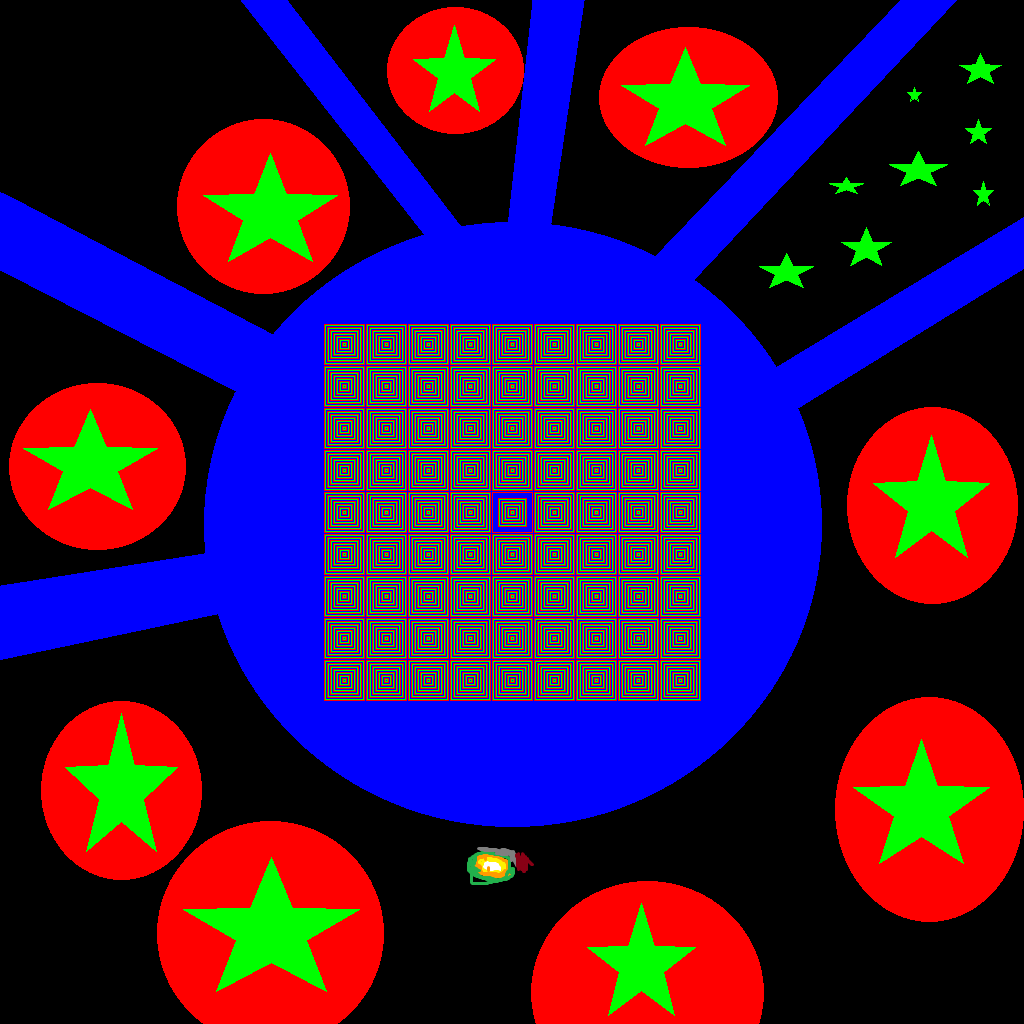
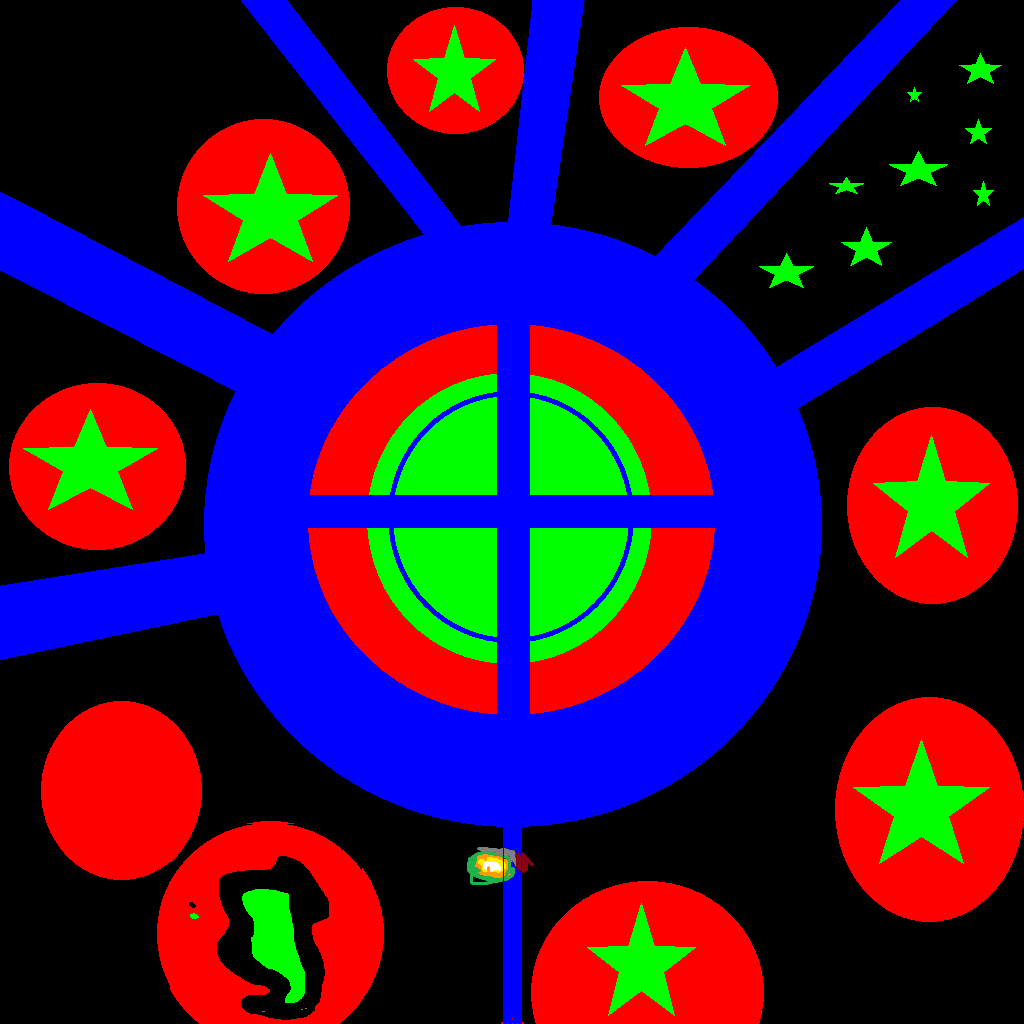
maps scaled together

diff --git a/src/engineTester/MainGameLoop.java b/src/engineTester/MainGameLoop.java
@@ -67,7 +67,7 @@ public class MainGameLoop {
       LevelObjectLayout level = new LevelObjectLayout();
 
       TexturedModel playerModel = dataObj.getTexturedModelData("selfCharacterAttempt", "selfCharacterAttemptUV");
-      Player player = new Player(playerModel, new Vector3f(512, 5, 0), 0, 180, 0, 1.0f);
+      Player player = new Player(playerModel, new Vector3f(512, 1, -5), 0, 180, 0, 0.5f);
       Camera camera = new Camera(player);
       entities.add(player);
 
@@ -98,12 +98,13 @@ public class MainGameLoop {
       TexturedModel flower = dataObj.getTexturedModelData("grassModel", "flower");
       flower.getTexture().setHasTransparency(true);
       flower.getTexture().setUseFakeLighting(true);
-      TexturedModel fern = new TexturedModel(OBJLoader.loadObjModel("fern", loader), fernTextureAtlas);
-      //TexturedModel fern = dataObj.getTexturedModelData("fern", "fern");
+      //TexturedModel fern = new TexturedModel(OBJLoader.loadObjModel("fern", loader), fernTextureAtlas);
+      TexturedModel fern = dataObj.getTexturedModelData("fern", "fern");
       fern.getTexture().setHasTransparency(true);
       TexturedModel tree = dataObj.getTexturedModelData("tree", "tree");
+      TexturedModel fence = dataObj.getTexturedModelData("fence", "fence1");
 
-      TexturedModel barrelModel = new TexturedModel(NormalMappedObjLoader.loadOBJ("barrel", loader),
+      TexturedModel barrelModel = new TexturedModel(NormalMappedObjLoader.loadOBJ("barrelEdit", loader),
                                                     new ModelTexture(loader.loadTexture("barrel", "normals")));
       barrelModel.getTexture().setNormalMap(loader.loadTexture("barrelNormal", "normals"));
       barrelModel.getTexture().setShineDamper(10);
@@ -115,49 +116,75 @@ public class MainGameLoop {
       List<Vector2f> coordVectors = level.getObjectMapLocations("objectMapTest", 150, 215, 30);
       for (int i = 0; i < coordVectors.size(); i++) {
          float x = (coordVectors.get(i).x) * 8f;
-         float z = (coordVectors.get(i).y) * -8f;
+         float z = ((1016 + (coordVectors.get(i).y) * -8f) * -1);
          float y = terrain.getHeightOfTerrain(x, z);
-         entities.add(new Entity(lowPolyTree, new Vector3f(x, y, z), 0, 0, 0, 1.9f));
+
+         float minN = 0.0f;
+         float maxN = 180.0f;
+         float randY = random.nextFloat() * (maxN - minN) + minN;
+
+         entities.add(new Entity(lowPolyTree, new Vector3f(x, y, z), 0, randY, 0, 1.0f));
       }
+      //System.out.println("size of coordVectors list(lowpolytree): " + coordVectors.size());
 
       coordVectors = level.getObjectMapLocations("objectMapTest", 35, 255, 60);
       for (int i = 0; i < coordVectors.size(); i++) {
-         float x = (coordVectors.get(i).x);
-         float z = (coordVectors.get(i).y);
+         float x = (coordVectors.get(i).x) * 8f;
+         float z = ((1016 + (coordVectors.get(i).y) * -8f) * -1);
          float y = terrain.getHeightOfTerrain(x, z);
-         entities.add(new Entity(tree, new Vector3f(x, y, z), 0, 0, 0, 1.9f));
+         //System.out.println("height: " + terrain.getHeightOfTerrain(x, z));
+         //System.out.println("x: " + x + " z: " + z);
+         entities.add(new Entity(tree, new Vector3f(x, y, z), 0, 0, 0, 8.0f));
       }
+      //System.out.println("size of coordVectors list(tree): " + coordVectors.size());
 
       coordVectors = level.getObjectMapLocations("objectMapTest", 220, 250, 70);
       for (int i = 0; i < coordVectors.size(); i++) {
          float x = (coordVectors.get(i).x) * 8f;
-         float z = (coordVectors.get(i).y) * -8f;
+         float z = ((1016 + (coordVectors.get(i).y) * -8f) * -1);
          float y = terrain.getHeightOfTerrain(x, z);
-         entities.add(new Entity(fern, 3, new Vector3f(x, y, z), 0, 0, 0, 1.0f));
+         entities.add(new Entity(fern, new Vector3f(x, y, z), 0, 0, 0, 1.0f));
       }
+      //System.out.println("size of coordVectors list(fern): " + coordVectors.size());
 
       coordVectors = level.getObjectMapLocations("objectMapTest", 155, 95, 30);
       for (int i = 0; i < coordVectors.size(); i++) {
          float x = (coordVectors.get(i).x) * 8f;
-         float z = (coordVectors.get(i).y) * -8f;
+         float z = ((1016 + (coordVectors.get(i).y) * -8f) * -1);
          float y = terrain.getHeightOfTerrain(x, z);
          entities.add(new Entity(grass, new Vector3f(x, y, z), 0, 0, 0, 1.9f));
       }
+      //System.out.println("size of coordVectors list(grass): " + coordVectors.size());
+
       coordVectors = level.getObjectMapLocations("objectMapTest", 250, 60, 215);
       for (int i = 0; i < coordVectors.size(); i++) {
-         float x = (coordVectors.get(i).x) * 6.25f;
-         float z = (coordVectors.get(i).y) * -6.25f;
+         float x = (coordVectors.get(i).x) * 8f;
+         float z = ((1016 + (coordVectors.get(i).y) * -8f) * -1);
          float y = terrain.getHeightOfTerrain(x, z);
          entities.add(new Entity(flower, new Vector3f(x, y, z), 0, 0, 0, 1.9f));
       }
+      //System.out.println("size of coordVectors list(flower): " + coordVectors.size());
+
+      coordVectors = level.getObjectMapLocations("objectMapTest", 215, 45, 45);
+      for (int i = 0; i < coordVectors.size(); i++) {
+         float x = (coordVectors.get(i).x) * 8f;
+         float z = ((1016 + (coordVectors.get(i).y) * -8f) * -1);
+         float y = terrain.getHeightOfTerrain(x, z);
+         entities.add(new Entity(fence, new Vector3f(x, y, z), 0, 0, 0, 4.0f));
+      }
+      //System.out.println("size of coordVectors list(fence): " + coordVectors.size());
 
       coordVectors = level.getObjectMapLocations("objectMapTest", 70, 50, 50);
       for (int i = 0; i < coordVectors.size(); i++) {
          float x = (coordVectors.get(i).x) * 8f;
-         float z = (coordVectors.get(i).y) * -8f;
+         float z = ((1016 + (coordVectors.get(i).y) * -8f) * -1);
          float y = terrain.getHeightOfTerrain(x, z);
-         normalMapEntities.add(new Entity(barrelModel, new Vector3f(x, y+10.2f, z), 0, 0, 0, 1.9f));
+         normalMapEntities.add(new Entity(barrelModel, new Vector3f(x, y, z), 0, 0, 0, 0.5f));
       }
+//      System.out.println("size of coordVectors list(barrel): " + coordVectors.size());
+//
+//      System.out.println("size of coordVectors list(finish): " + coordVectors.size());
+//      System.out.println("size of entities list(total): " + entities.size());
 
 
       Light sun = new Light (new Vector3f(200000, 400000, -200000), new Vector3f(1.3f, 1.3f, 1.3f));
@@ -179,18 +206,18 @@ public class MainGameLoop {
       WaterFrameBuffers buffers = new WaterFrameBuffers();
       WaterShader waterShader = new WaterShader();
       WaterRenderer waterRenderer = new WaterRenderer(loader, waterShader, renderer.getProjectionMatrix(), buffers);
-      WaterTile water = new WaterTile(75, -75, 0);
+      WaterTile water = new WaterTile(288, -96, -6);
       waters.add(water);
 
       ParticleMaster.renderParticles(camera);
 
       FontType font = new FontType(loader.loadTexture(("candara"), "fonts"), new File("res/fonts/candara.fnt"));
-      GUIText text = new GUIText("testing, testing, 1, 2, 3 lol!", 3, font, new Vector2f(0.0f, 0.9f), 1f, true);
+      GUIText text = new GUIText("testing, testing, 1, 2, 3 lol", 3, font, new Vector2f(0.0f, 0.9f), 1f, true);
       text.setColor(0.8f, 0.9f, 0.1f);
 
       ParticleTexture particleTexture = new ParticleTexture(loader.loadTexture("alphapizza", "particles"), 1);
 
-      ParticleSystem system = new ParticleSystem(particleTexture, 40, 10, 0.01f, 6, 1.0f);
+      ParticleSystem system = new ParticleSystem(particleTexture, 40, 15, 0.02f, 4f, 1.0f);
       system.setLifeError(0.0f);
       system.setDirection(new Vector3f(0, 1, 0), 0.1f);
       system.setSpeedError(0.0f);
@@ -209,8 +236,10 @@ public class MainGameLoop {
          player.move(terrain);
          camera.move();
          picker.update();
+         //System.out.println(picker.getCurrentRay());
 
-         system.generateParticles(player.getPosition());
+         //system.generateParticles(new Vector3f(544, 1, -232));
+         //system.generateParticles(new Vector3f(488, 1, -224));
 
          ParticleMaster.update(camera);
 
@@ -236,7 +265,7 @@ public class MainGameLoop {
 
          multisampleFbo.bindFrameBuffer();
          renderer.renderScene(entities, normalMapEntities, terrains, lights, camera,
-                              new Vector4f(0, 1, 0, 30));
+                              new Vector4f(0, -1, 0, 0));
          waterRenderer.render(waters, camera, sun);
          ParticleMaster.renderParticles(camera);
          multisampleFbo.unbindFrameBuffer();

diff --git a/src/renderEngine/DisplayManager.java b/src/renderEngine/DisplayManager.java
@@ -28,7 +28,7 @@ public class DisplayManager {
          //Display.setDisplayModeAndFullscreen(Display.getDesktopDisplayMode());
          Display.setDisplayMode(new DisplayMode(WIDTH, HEIGHT));
          Display.create(new PixelFormat().withSamples(8), attribs);
-         Display.setTitle("First Display!");
+         Display.setTitle("Ready.. Game!");
          GL11.glEnable(GL13.GL_MULTISAMPLE);
       }
       catch (LWJGLException e) {

diff --git a/src/water/WaterTile.java b/src/water/WaterTile.java
@@ -7,7 +7,7 @@ package water;
  */
 public class WaterTile {
 
-   public static final float TILE_SIZE = 60;
+   public static final float TILE_SIZE = 100;
 
    private float height;
    private float x,z;
